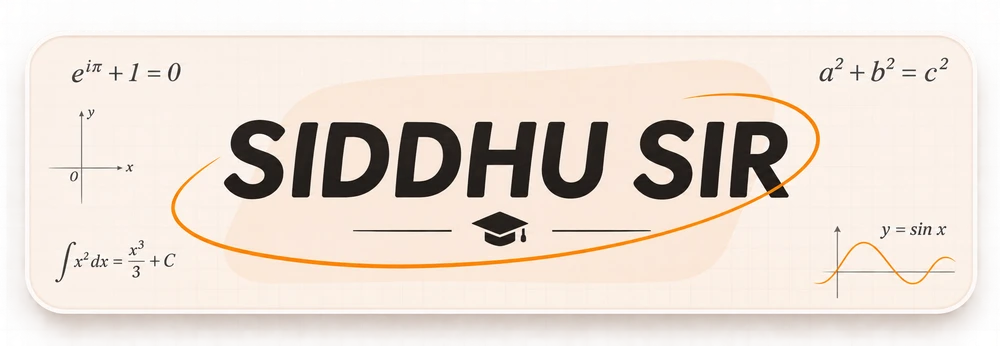
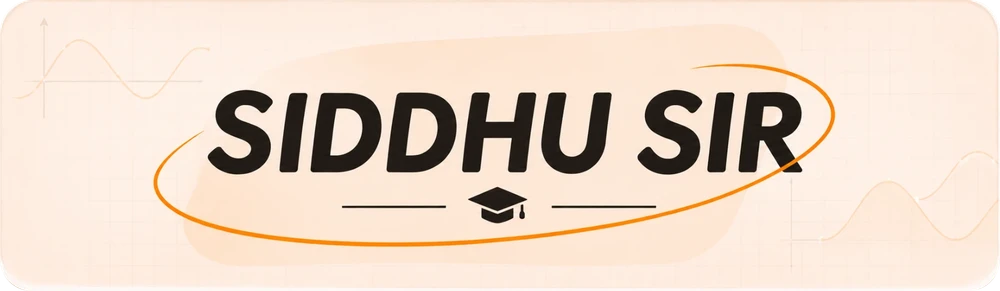
Use the new Siddhu Sir nameplate artwork

diff --git a/components/blocks.tsx b/components/blocks.tsx
@@ -53,7 +53,7 @@ export function NamePlate({ settings, className = "" }: { settings: Settings; cl
   if (name.trim().toLowerCase() === "siddhu sir") {
     return (
       // eslint-disable-next-line @next/next/no-img-element
-      <img src="/brand/nameplate.webp" alt="Siddhu Sir" width={1000} height={346} className={`relative z-10 mx-auto block h-auto w-[82%] max-w-[22rem] ${className}`} />
+      <img src="/brand/nameplate.webp" alt="Siddhu Sir" width={1000} height={291} className={`relative z-10 mx-auto block h-auto w-[82%] max-w-[22rem] drop-shadow-[0_10px_18px_rgba(22,23,27,.22)] ${className}`} />
     );
   }
   return (
